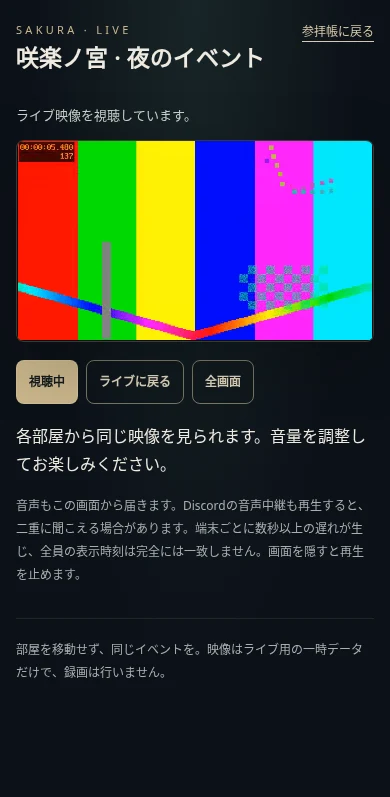
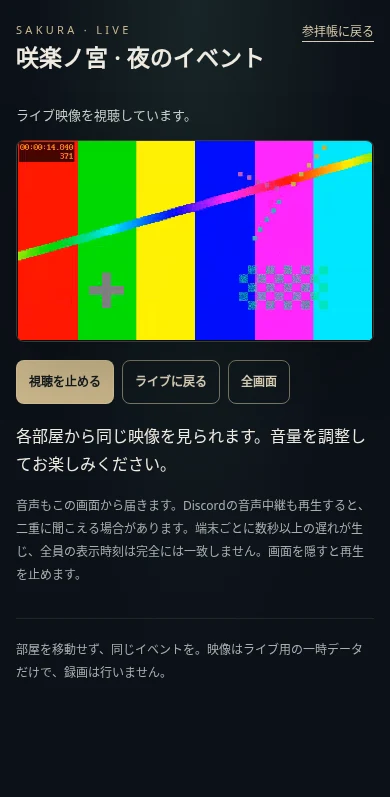
制限付き配信基盤と実再生・切断の確認を記録して最終版を固定

Changed region(s): [[0.0308, 0.1807, 0.9538, 0.5119], [0.1231, 0.1807, 0.1846, 0.2108]]

diff --git a/docs/work-notes.md b/docs/work-notes.md
@@ -1,3 +1,10 @@
+### 2026年11月7日・配信の最終固定前
+- 本番d678595の宿修正を18fbe86でmergeし、更新履歴は両方保持。競馬/GODの製品コードを編集していない。型チェック・TSビルド・public配布コピーが成功。最終関連8ファイル76件成功（223.30秒）。古いコンパイルは取り込み時に停止し、取り込み後の型/buildで確認し直した。
+- 最終UIでChromium/WebKitの実H264/AAC配信、640x360映像進行、4幅320/390/844/1440、44px、鍵マスク/消去、匿名401、再接続、非表示時の停止/復帰時に手動再生を確認。運営detailsも4幅で収まり44px（hiddenな鍵欄の高さ0を対象にした最初の検証はロケーターを修正し、表示中の操作面で確認）。JS例外0。
+- non-root1000:1000/readonly/cap-dropALL/512MB/CPU1/pid128の実コンテナでもRTMPS送信→ブラウザー実再生→API切断を確認。停止後の媒体403/旧鍵401、直接HLS/API401が成功。TLSの検証は省略していない。Composeは.envを読まず試験用の非秘密コピーで検証、Caddy validate成功。
+- hls.js全版1.6.15とApache許諾/著作権表示、MediaMTX1.15.6のdigest、docs/event-stream.mdと人工映像のWebPを保存。設置先/人数は質問への回答待ち。既存VPSへの任意追加を用意したが実VPS/OBS GUI/実端末/想定人数の負荷確認は未実施。新規契約/配信開始/外部投稿/本番合流は行わない。
+- 自分のプレビュー/配信元/テストコンテナを停止。この固定状態でNode22・2workerの全テストをこれから開始し、完了した件数だけを追記する。現時点は未push/PR未作成。
+
 ### 映像配信の実動作確認と最新本番の取り込み前
 - 関連3ファイル28件とプレーヤー/Web2ファイル17件が成功。Chromium/WebKitで暗号化RTMPS→HLSの640x360実映像進行、4幅/44px、鍵マスク/消去、匿名401、非表示停止と手動復帰を確認。実際のAPI終了で配信元が切れ、媒体が消え、旧鍵/旧URLと直接HLS/APIが拒否されることも確認。
 - 最終UIには受信中/再生中の区別と手動の視聴停止、遅れた鍵応答の再表示防止を追加。最終UIで両ブラウザー/終了確認を再実行中。Composeは本物の.envを使わない試験用コピーで検証し成功、Caddy validateも成功。
